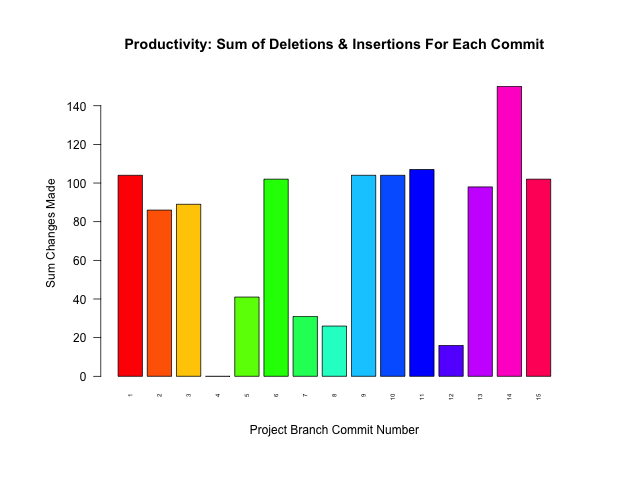
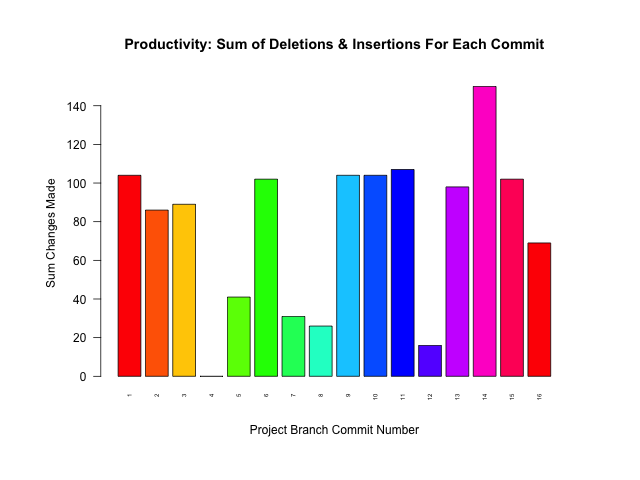
COMMIT #259

diff --git a/README.md b/README.md
@@ -17,8 +17,8 @@ ProjectName::BranchName.data
 
 Project Name | Last Updated | # Commits | # Branches | Branches Merged
 :---|:---:|:---:|:---:|:---:
-[commit_tracker](https://github.com/pierremigeon/commit_tracker)                                    |  2023-07-21  |  257  |  1  |  100%  (1/1)
-[Algorithms_practice](https://github.com/pierremigeon/Algorithms_practice)                          |  2023-07-21  |  15   |  7  |  71%   (5/7)
+[Algorithms_practice](https://github.com/pierremigeon/Algorithms_practice)                          |  2023-07-22  |  16   |  7  |  71%   (5/7)
+[commit_tracker](https://github.com/pierremigeon/commit_tracker)                                    |  2023-07-21  |  258  |  1  |  100%  (1/1)
 [FASTQ_examiner](https://github.com/pierremigeon/FASTQ_examiner)                                    |  2023-07-20  |  74   |  4  |  75%   (3/4)
 [learn_some_C.Plus.Plus](https://github.com/pierremigeon/learn_some_C.Plus.Plus)                    |  2023-07-17  |  79   |  2  |  50%   (1/2)
 [libft](https://github.com/pierremigeon/libft)                                                      |  2023-06-05  |  30   |  2  |  50%   (1/2)
